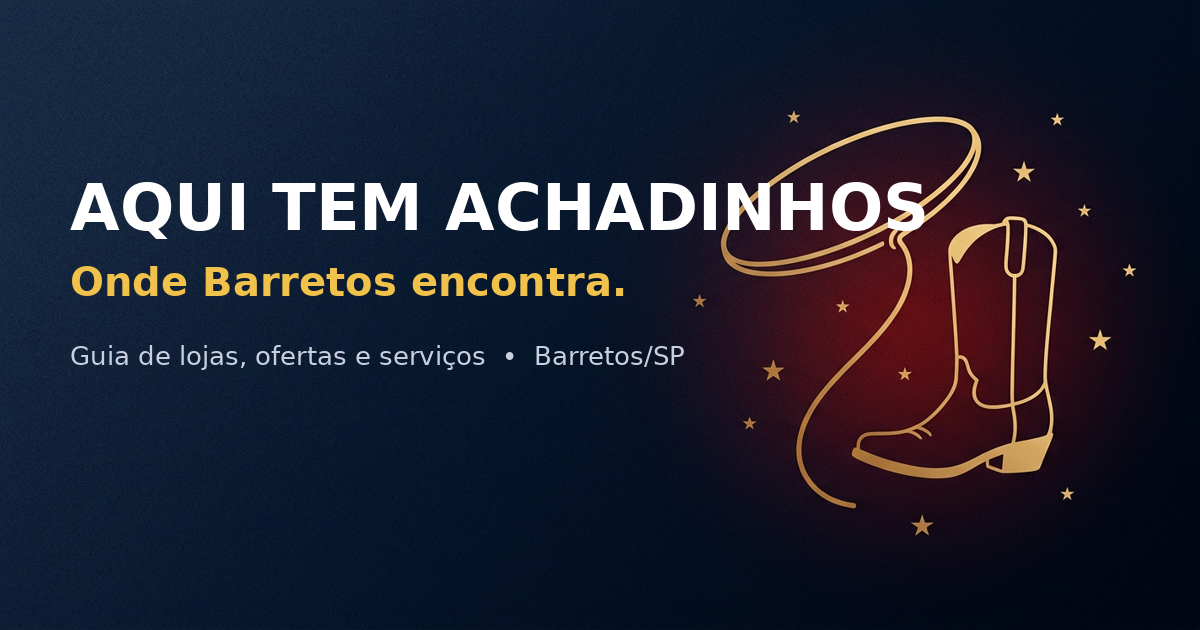
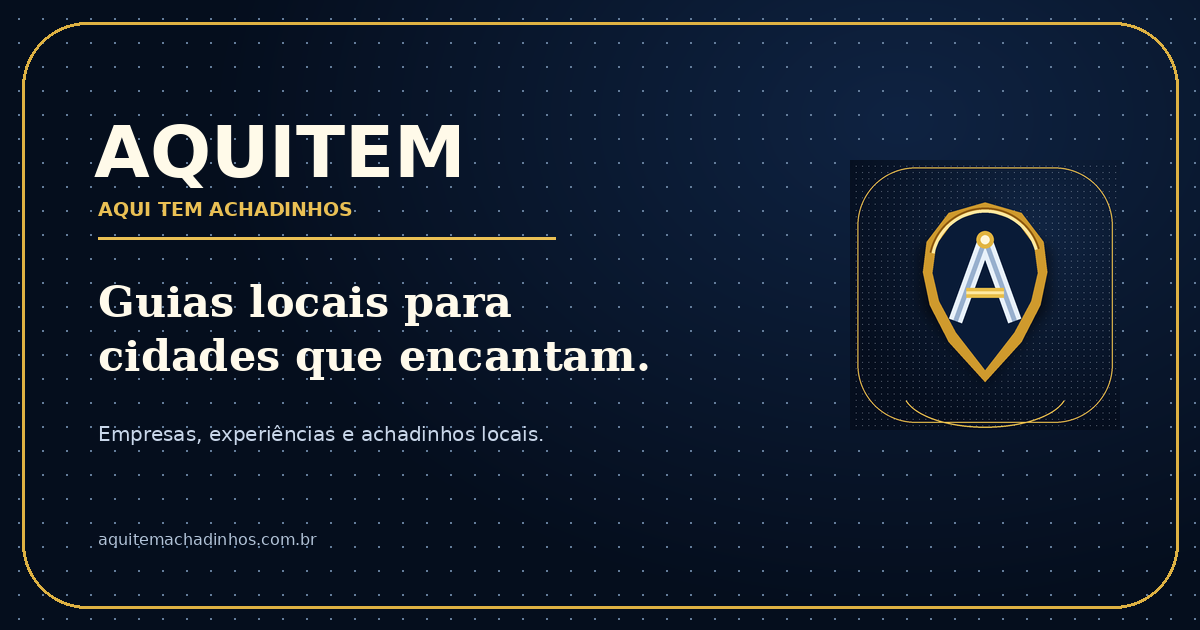
Add files via upload

diff --git a/assets/app.js b/assets/app.js
@@ -69,7 +69,8 @@
   if (sub !== "www" && (location.pathname === "/" || location.pathname === "/index.html")) { location.replace("/" + sub + "-home.html"); }
   var par = CIDADES[sub] || CIDADES["www"];
   var CIDADE = par[0], UF = par[1], CIDUP = CIDADE.toUpperCase();
-  window.CIDADE = { nome: CIDADE, uf: UF };
+  document.documentElement.setAttribute('data-aquitem-city', sub === 'www' ? 'barretos' : sub);
+  window.CIDADE = { nome: CIDADE, uf: UF, slug: (sub === 'www' ? 'barretos' : sub) };
   function temCidade(s) { return s && (s.indexOf("Barretos") !== -1 || s.indexOf("BARRETOS") !== -1 || s.indexOf("barretos") !== -1); }
   function trocaTexto(s) {
     return s.split("BARRETOS/SP").join(CIDUP + "/" + UF)
@@ -114,7 +115,8 @@
   'use strict';
 
   var CONFIG = {
-    brand: 'Aqui Tem Achadinhos',
+    brand: 'AQUITEM',
+    productName: 'Aqui Tem Achadinhos',
     whatsapp: '5517992641746',
     instagram: 'https://instagram.com/aquitatem',
     domain: 'aquitemachadinhos.com.br',
@@ -236,16 +238,22 @@
   }
   window.ATA = { CONFIG: CONFIG, LojistaAuth: LojistaAuth, Stores: Stores, Offers: Offers, Categories: Categories, Metrics: Metrics, uploadPhoto: uploadPhoto, waLink: waLink, esc: esc };
 
-  /* LAYOUT */
-  var LOGO = '<svg viewBox="0 0 64 64" class="w-9 h-9 rounded-xl shadow-soft" aria-hidden="true"><rect width="64" height="64" rx="16" fill="#0B1E3F"/><path d="M19 47 L32 16 L45 47" fill="none" stroke="#dfe7f0" stroke-width="6.5" stroke-linecap="round" stroke-linejoin="round"/><line x1="24" y1="38" x2="40" y2="38" stroke="#E63946" stroke-width="5" stroke-linecap="round"/></svg>';
+  /* LAYOUT — identidade AQUITEM */
+  var LOGO = '<img src="assets/aquitem-symbol.png" class="w-10 h-10 rounded-xl shadow-soft object-cover" alt="AQUITEM">';
+  function cityRegistrationUrl() { var slug = currentCitySlug(); return slug === 'barretos' ? 'cadastro.html' : 'https://www.aquitemachadinhos.com.br/cadastro-cidade.html?cidade=' + encodeURIComponent(slug) + '&utm_source=site&utm_medium=header_cta&utm_campaign=expansao_' + encodeURIComponent(slug); }
   function headerHTML(active) {
-    var it = [{ k: 'home', l: 'Início', h: 'index.html' }, { k: 'categoria', l: 'Categorias', h: 'categoria.html' }, { k: 'busca', l: '🔍 Buscar', h: 'busca.html' }, { k: 'favoritos', l: '❤ Favoritos', h: 'favoritos.html' }, { k: 'ofertas', l: 'Ofertas', h: 'ofertas.html' }, { k: 'imoveis', l: '🏠 Imóveis', h: 'imoveis.html' }, { k: 'mapa', l: 'Mapa', h: 'mapa.html' }, { k: 'turista', l: 'Turista', h: 'turista.html' }, { k: 'guiapeao', l: '🤠 Guia do Peão', h: 'guia-peao.html' }, { k: 'motoristas', l: '🚗 Motoristas', h: 'motoristas.html' }, { k: 'classificados', l: 'Classificados', h: 'classificados.html' }, { k: 'anuncie', l: 'Para empresas', h: 'anuncie.html' }];
-    var nav = it.filter(function (i) { return ['home','categoria','busca','ofertas','imoveis','motoristas','guiapeao'].indexOf(i.k) > -1; }).map(function (i) { return '<a href="' + i.h + '" class="' + (active === i.k ? 'text-white' : 'text-silver-200 hover:text-white') + ' transition">' + i.l + '</a>'; }).join('');
+    var city = currentCityName(), isBarretos = currentCitySlug() === 'barretos';
+    var it = [{ k: 'home', l: 'Início', h: 'index.html' }, { k: 'categoria', l: 'Categorias', h: 'categoria.html' }, { k: 'busca', l: '🔍 Buscar', h: 'busca.html' }, { k: 'ofertas', l: 'Ofertas', h: 'ofertas.html' }, { k: 'mapa', l: 'Mapa', h: 'mapa.html' }, { k: 'turista', l: 'Turista', h: 'turista.html' }, { k: 'classificados', l: 'Classificados', h: 'classificados.html' }, { k: 'anuncie', l: 'Para empresas', h: 'anuncie.html' }];
+    if (isBarretos) it.splice(5, 0, { k: 'guiapeao', l: 'Guia do Peão', h: 'guia-peao.html' });
+    var nav = it.filter(function (i) { return ['home','categoria','busca','ofertas','guiapeao'].indexOf(i.k) > -1; }).map(function (i) { return '<a href="' + i.h + '" class="' + (active === i.k ? 'text-white' : 'text-silver-200 hover:text-white') + ' transition">' + i.l + '</a>'; }).join('');
     var mob = it.map(function (i) { return '<a href="' + i.h + '" class="py-2.5 px-3 rounded-lg hover:bg-white/5 ' + (active === i.k ? 'text-white' : '') + '">' + i.l + '</a>'; }).join('');
-    return '<header class="sticky top-0 z-50 bg-navy-950/80 backdrop-blur border-b border-white/10"><div class="max-w-7xl mx-auto px-4 sm:px-6 h-16 flex items-center justify-between gap-3"><a href="index.html" class="flex items-center gap-2.5 shrink-0">' + LOGO + '<span class="leading-tight"><span class="block font-display font-extrabold text-[15px] text-chrome">' + esc(CONFIG.brand) + '</span><span class="block text-[10px] text-silver-400 tracking-wide">GUIA DE COMPRAS DE BARRETOS</span></span></a><nav class="hidden lg:flex items-center gap-7 text-sm font-medium">' + nav + '</nav><div class="flex items-center gap-2"><a href="cadastro.html" class="hidden sm:inline-flex btn-shine bg-peao-500 hover:bg-peao-600 text-white text-sm font-semibold px-4 py-2.5 rounded-xl shadow-redglow transition">Cadastrar empresa</a><button id="menuBtn" class="lg:hidden w-10 h-10 grid place-items-center rounded-xl glass text-white" aria-label="Menu"><svg class="w-6 h-6" fill="none" stroke="currentColor" stroke-width="2" viewBox="0 0 24 24"><path d="M4 6h16M4 12h16M4 18h16"/></svg></button></div></div><div id="mobileMenu" class="hidden lg:hidden border-t border-white/10 bg-navy-950/95"><div class="px-4 py-3 flex flex-col gap-1 text-silver-200">' + mob + '<a href="cadastro.html" class="mt-1 text-center bg-peao-500 text-white font-semibold py-3 rounded-xl">Cadastrar empresa</a></div></div></header>';
+    return '<header class="sticky top-0 z-50 bg-navy-950/90 backdrop-blur border-b border-white/10"><div class="max-w-7xl mx-auto px-4 sm:px-6 aquitem-header flex items-center justify-between gap-3"><a href="index.html" class="flex items-center gap-2.5 shrink-0">' + LOGO + '<span class="leading-tight"><span class="block font-display font-extrabold aquitem-wordmark text-[15px] text-chrome">AQUITEM</span><span class="block text-[9px] text-peao-400 font-bold aquitem-submark">GUIAS LOCAIS · ' + esc(city.toUpperCase()) + '</span></span></a><nav class="hidden lg:flex items-center gap-7 text-sm font-medium">' + nav + '</nav><div class="flex items-center gap-2"><a href="' + cityRegistrationUrl() + '" class="hidden sm:inline-flex btn-shine bg-amber-400 hover:bg-amber-300 text-navy-950 text-sm font-extrabold px-4 py-2.5 rounded-xl transition">Cadastrar empresa</a><button id="menuBtn" class="lg:hidden w-10 h-10 grid place-items-center rounded-xl glass text-white" aria-label="Abrir menu"><svg class="w-6 h-6" fill="none" stroke="currentColor" stroke-width="2" viewBox="0 0 24 24"><path d="M4 6h16M4 12h16M4 18h16"/></svg></button></div></div><div id="mobileMenu" class="hidden lg:hidden border-t border-white/10 bg-navy-950/95"><div class="px-4 py-3 flex flex-col gap-1 text-silver-200">' + mob + '<a href="' + cityRegistrationUrl() + '" class="mt-1 text-center bg-amber-400 text-navy-950 font-extrabold py-3 rounded-xl">Cadastrar empresa</a></div></div></header>';
   }
   function footerHTML() {
-    return '<footer class="bg-navy-950 text-silver-300 border-t border-white/10"><div id="socialProof" class="border-b border-white/10"><div class="max-w-5xl mx-auto px-4 py-8 text-center text-silver-400 text-sm">Carregando números reais…</div></div><div class="max-w-7xl mx-auto px-4 sm:px-6 py-12 grid md:grid-cols-4 gap-8"><div class="md:col-span-2"><div class="flex items-center gap-2.5 mb-3">' + LOGO + '<span class="font-display font-extrabold text-chrome">' + esc(CONFIG.brand) + '</span></div><p class="text-sm text-silver-400 max-w-sm">O guia local de lojas, serviços e ofertas de ' + esc(CONFIG.cidade) + '. Empresas reais, ofertas atualizadas e contatos diretos em um só lugar.</p><div class="flex gap-3 mt-4"><a href="' + waLink() + '" target="_blank" rel="noopener noreferrer" class="w-10 h-10 grid place-items-center rounded-xl glass hover:bg-white/10 transition">💬</a><a href="' + CONFIG.instagram + '" target="_blank" rel="noopener noreferrer" class="w-10 h-10 grid place-items-center rounded-xl glass hover:bg-white/10 transition">📸</a></div></div><div><h4 class="text-white font-semibold mb-3 font-display">Para você</h4><ul class="space-y-2 text-sm"><li><a href="categoria.html" class="hover:text-white">Categorias</a></li><li><a href="ofertas.html" class="hover:text-white">Ofertas</a></li><li><a href="index.html#turista" class="hover:text-white">Guia do turista</a></li></ul></div><div><h4 class="text-white font-semibold mb-3 font-display">Para empresas</h4><ul class="space-y-2 text-sm"><li><a href="anuncie.html" class="hover:text-white">Anunciar empresa</a></li><li><a href="cadastro.html" class="hover:text-white">Cadastrar grátis</a></li><li><a href="' + waLink('Olá! Quero saber sobre anúncios.') + '" target="_blank" rel="noopener noreferrer" class="hover:text-white">WhatsApp</a></li></ul></div></div><div class="border-t border-white/10"><div class="max-w-7xl mx-auto px-4 sm:px-6 py-4 text-xs text-silver-400 flex flex-wrap gap-x-5 gap-y-2"><a href="sobre.html" class="hover:text-white">Sobre</a><a href="contato.html" class="hover:text-white">Contato</a><a href="faq.html" class="hover:text-white">Ajuda/FAQ</a><a href="politica-de-privacidade.html" class="hover:text-white">Privacidade</a><a href="termos.html" class="hover:text-white">Termos</a><a href="politica-de-ofertas.html" class="hover:text-white">Política de ofertas</a><a href="o-que-fazer-festa-do-peao.html" class="hover:text-white">Festa do Peão</a><a href="onde-comer-barretos.html" class="hover:text-white">Onde comer</a></div><div class="max-w-7xl mx-auto px-4 sm:px-6 pb-5 text-xs text-silver-400 flex flex-col sm:flex-row justify-between gap-2"><span>© 2026 ' + esc(CONFIG.brand) + ' · ' + CONFIG.domain + '</span><span>Conteúdo pago é identificado como “Destaque”. Barretos/SP 💙🤍</span></div></div></footer>';
+    var city = currentCityName(), isBarretos = currentCitySlug() === 'barretos', register = cityRegistrationUrl();
+    var explore = '<a href="categoria.html" class="hover:text-white">Categorias</a><a href="ofertas.html" class="hover:text-white">Ofertas</a><a href="https://www.aquitemachadinhos.com.br/cidades.html" class="hover:text-white">Todas as cidades</a><a href="index.html#turista" class="hover:text-white">Guia do turista</a>';
+    var legal = '<a href="sobre.html" class="hover:text-white">Sobre</a><a href="contato.html" class="hover:text-white">Contato</a><a href="faq.html" class="hover:text-white">Ajuda</a><a href="politica-de-privacidade.html" class="hover:text-white">Privacidade</a><a href="termos.html" class="hover:text-white">Termos</a><a href="politica-de-ofertas.html" class="hover:text-white">Política de ofertas</a>' + (isBarretos ? '<a href="guia-peao.html" class="hover:text-white">Festa do Peão</a>' : '');
+    return '<footer class="bg-navy-950 text-silver-300 border-t border-white/10"><div id="socialProof" class="border-b border-white/10"><div class="max-w-5xl mx-auto px-4 py-7 text-center text-silver-400 text-sm">Carregando números reais…</div></div><div class="max-w-7xl mx-auto px-5 sm:px-6 py-12 grid md:grid-cols-4 gap-9"><div class="md:col-span-2"><div class="flex items-center gap-3 mb-4">' + LOGO + '<span><span class="block font-display font-extrabold tracking-[.08em] text-chrome">AQUITEM</span><span class="block text-[10px] text-peao-400 font-bold tracking-[.14em]">AQUI TEM ACHADINHOS</span></span></div><p class="text-sm text-silver-400 max-w-sm leading-relaxed">Empresas, experiências e achadinhos locais para quem mora, visita ou empreende em <b>' + esc(city) + '</b>.</p><div class="flex gap-3 mt-5"><a href="' + waLink('Olá! Vim pela AQUITEM.') + '" target="_blank" rel="noopener noreferrer" class="w-10 h-10 grid place-items-center rounded-xl glass hover:bg-white/10 transition" aria-label="WhatsApp">💬</a><a href="' + CONFIG.instagram + '" target="_blank" rel="noopener noreferrer" class="w-10 h-10 grid place-items-center rounded-xl glass hover:bg-white/10 transition" aria-label="Instagram">📸</a></div></div><div><h4 class="text-white font-semibold mb-3 font-display">Explorar</h4><div class="aquitem-footer-nav text-sm text-silver-400">' + explore + '</div></div><div><h4 class="text-white font-semibold mb-3 font-display">Para empresas</h4><div class="aquitem-footer-nav text-sm text-silver-400"><a href="' + register + '" class="hover:text-white">Cadastrar empresa</a><a href="anuncie.html" class="hover:text-white">Planos e visibilidade</a><a href="' + waLink('Olá! Quero saber sobre anúncios na AQUITEM.') + '" target="_blank" rel="noopener noreferrer" class="hover:text-white">Falar no WhatsApp</a></div></div></div><div class="border-t border-white/10"><div class="max-w-7xl mx-auto px-5 sm:px-6 py-5 text-xs text-silver-400 aquitem-footer-links">' + legal + '</div><div class="max-w-7xl mx-auto px-5 sm:px-6 pb-6 text-xs text-silver-400 flex flex-col sm:flex-row justify-between gap-2"><span>© 2026 AQUITEM · Aqui Tem Achadinhos</span><span>Conteúdo pago é identificado como “Destaque”. ' + esc(city) + '/' + esc(currentCityUF()) + '</span></div></div></footer>';
   }
   function injectLayout() {
     var h = $('#site-header'); if (h) h.innerHTML = headerHTML(document.body.dataset.page || 'home');
@@ -256,7 +264,18 @@
     var isAdminSurface = document.body && ['admin','painel','login'].indexOf(pageSurface) !== -1;
     var landingPages = ['home','gramado','blumenau','bonito','buzios','campos','caruaru','florianopolis','jericoacoara','porto','salvador'];
     var allowFloatingWa = landingPages.indexOf(pageSurface) !== -1;
-    if (!isAdminSurface && allowFloatingWa && !$('#ataFloatingWa')) { var a = document.createElement('a'); a.id = 'ataFloatingWa'; a.href = waLink('Olá! Vim pelo Aqui Tem Achadinhos.'); a.target = '_blank'; a.rel = 'noopener noreferrer'; a.className = 'fixed bottom-5 right-5 z-50 w-14 h-14 rounded-full bg-[#25D366] text-white grid place-items-center shadow-2xl hover:scale-105 transition'; a.setAttribute('aria-label', 'WhatsApp'); a.innerHTML = '💬'; document.body.appendChild(a); }
+    if (!isAdminSurface && allowFloatingWa && !$('#ataFloatingWa')) { var a = document.createElement('a'); a.id = 'ataFloatingWa'; a.href = waLink('Olá! Vim pela AQUITEM.'); a.target = '_blank'; a.rel = 'noopener noreferrer'; a.className = 'fixed bottom-5 right-5 z-50 w-14 h-14 rounded-full bg-[#25D366] text-white grid place-items-center shadow-2xl hover:scale-105 transition'; a.setAttribute('aria-label', 'WhatsApp'); a.innerHTML = '💬'; document.body.appendChild(a); }
+  }
+
+  /* CITY PARALLAX — leve, progressivo e desligável */
+  function initCityParallax() {
+    var hero = document.querySelector('.cidade-hero');
+    if (!hero || (window.matchMedia && window.matchMedia('(prefers-reduced-motion: reduce)').matches)) return;
+    hero.style.setProperty('--parallax-x', '0px'); hero.style.setProperty('--parallax-y', '0px'); hero.style.setProperty('--parallax-x-soft', '0px'); hero.style.setProperty('--parallax-y-soft', '0px');
+    if (window.matchMedia && window.matchMedia('(pointer:fine)').matches) {
+      hero.addEventListener('pointermove', function (e) { var r = hero.getBoundingClientRect(); var x = ((e.clientX-r.left)/r.width-.5)*16; var y = ((e.clientY-r.top)/r.height-.5)*12; hero.style.setProperty('--parallax-x', x.toFixed(1)+'px'); hero.style.setProperty('--parallax-y', y.toFixed(1)+'px'); hero.style.setProperty('--parallax-x-soft', (-x*.7).toFixed(1)+'px'); hero.style.setProperty('--parallax-y-soft', (-y*.7).toFixed(1)+'px'); }, { passive:true });
+      hero.addEventListener('pointerleave', function () { hero.style.setProperty('--parallax-x','0px'); hero.style.setProperty('--parallax-y','0px'); hero.style.setProperty('--parallax-x-soft','0px'); hero.style.setProperty('--parallax-y-soft','0px'); });
+    }
   }
 
   /* COUNTDOWN / SW */
@@ -657,7 +676,7 @@
     var status = lead.status || 'novo';
     var opts = ['novo','contatado','qualificado','cadastro_enviado','ativo','perdido'].map(function(x){ return '<option value="' + x + '"' + (x === status ? ' selected' : '') + '>' + x.replace('_',' ') + '</option>'; }).join('');
     var wa = String(lead.whatsapp || '').replace(/\D/g, '');
-    return '<div class="bg-white rounded-2xl ring-silver shadow-soft p-4 flex flex-col sm:flex-row items-stretch sm:items-center gap-3"><div class="w-11 h-11 rounded-xl bg-navy-800 text-white grid place-items-center font-bold">' + esc(city.slice(0,2).toUpperCase()) + '</div><div class="flex-1 min-w-0"><p class="font-display font-bold truncate">' + esc(lead.empresa_nome) + '</p><p class="text-xs text-silver-500">📍 ' + esc(city) + (lead.categoria ? ' · ' + esc(lead.categoria) : '') + (lead.origem ? ' · ' + esc(lead.origem) : '') + '</p><p class="text-xs text-slate-500 truncate">' + esc(lead.responsavel || '') + (lead.email ? ' · ' + esc(lead.email) : '') + '</p></div><div class="flex w-full sm:w-auto items-center gap-2 shrink-0 flex-wrap justify-end">' + (status === 'ativo' ? '<span class="text-xs font-bold text-emerald-700 bg-emerald-500/10 px-3 py-1.5 rounded-lg">✓ Publicada</span>' : '<button data-lead-convert="' + esc(lead.id) + '" class="text-xs font-bold text-white bg-navy-800 px-3 py-1.5 rounded-lg">Publicar empresa</button>') + '<a href="https://wa.me/' + esc(wa) + '?text=' + encodeURIComponent('Olá! Recebemos o interesse da sua empresa na AQUITÉM. Posso ajudar com o cadastro?') + '" target="_blank" rel="noopener noreferrer" class="text-xs font-bold text-white bg-[#25D366] px-3 py-1.5 rounded-lg">WhatsApp</a><select data-lead-status="' + esc(lead.id) + '" class="text-xs bg-silver-50 ring-silver rounded-lg px-2 py-1">' + opts + '</select></div></div>';
+    return '<div class="bg-white rounded-2xl ring-silver shadow-soft p-4 flex flex-col sm:flex-row items-stretch sm:items-center gap-3"><div class="w-11 h-11 rounded-xl bg-navy-800 text-white grid place-items-center font-bold">' + esc(city.slice(0,2).toUpperCase()) + '</div><div class="flex-1 min-w-0"><p class="font-display font-bold truncate">' + esc(lead.empresa_nome) + '</p><p class="text-xs text-silver-500">📍 ' + esc(city) + (lead.categoria ? ' · ' + esc(lead.categoria) : '') + (lead.origem ? ' · ' + esc(lead.origem) : '') + '</p><p class="text-xs text-slate-500 truncate">' + esc(lead.responsavel || '') + (lead.email ? ' · ' + esc(lead.email) : '') + '</p></div><div class="flex w-full sm:w-auto items-center gap-2 shrink-0 flex-wrap justify-end">' + (status === 'ativo' ? '<span class="text-xs font-bold text-emerald-700 bg-emerald-500/10 px-3 py-1.5 rounded-lg">✓ Publicada</span>' : '<button data-lead-convert="' + esc(lead.id) + '" class="text-xs font-bold text-white bg-navy-800 px-3 py-1.5 rounded-lg">Publicar empresa</button>') + '<a href="https://wa.me/' + esc(wa) + '?text=' + encodeURIComponent('Olá! Recebemos o interesse da sua empresa na AQUITEM. Posso ajudar com o cadastro?') + '" target="_blank" rel="noopener noreferrer" class="text-xs font-bold text-white bg-[#25D366] px-3 py-1.5 rounded-lg">WhatsApp</a><select data-lead-status="' + esc(lead.id) + '" class="text-xs bg-silver-50 ring-silver rounded-lg px-2 py-1">' + opts + '</select></div></div>';
   }
   function leadCategoryGuess(v) {
     var x = String(v || '').toLowerCase();
@@ -1351,7 +1370,7 @@
 
   /* BOOT */
   document.addEventListener('DOMContentLoaded', function () {
-    injectLayout(); renderSocialProof(); initCountdown(); Metrics.log('pageview'); wireSearchAutocomplete(); renderRecent(); registerSW(); initAnalytics(); wireMP();
+    injectLayout(); renderSocialProof(); initCountdown(); initCityParallax(); Metrics.log('pageview'); wireSearchAutocomplete(); renderRecent(); registerSW(); initAnalytics(); wireMP();
     document.addEventListener('click', function (e) { var b = e.target.closest('[data-fav]'); if (b) { e.preventDefault(); e.stopPropagation(); var added = toggleFav(b.getAttribute('data-fav')); b.innerHTML = added ? '❤' : '🤍'; } });
     var p = document.body.dataset.page;
     var ROUTES = { home: pageHome, categoria: pageCategoria, loja: pageLoja, ofertas: pageOfertas, busca: pageBusca, cadastro: pageCadastro, turista: pageTurista, login: pageLogin, admin: pageAdmin, painel: pagePainel, mapa: pageMapa, motoristas: pageMotoristas, motorista: pageMotorista, cadmotorista: pageCadastroMotorista, obrigado: pageObrigado, favoritos: pageFavoritos, classificados: pageClassificadosHub, listings: pageListings, anuncio: pageAnuncio, cadanuncio: pageCadastroAnuncio };

diff --git a/assets/styles.css b/assets/styles.css
@@ -55,3 +55,27 @@ input::placeholder,textarea::placeholder{color:#6b7a92}
 
 /* Área para preencher (empresas reais) — classe permitida pela CSP */
 .area-preenchimento{border:2px dashed #E63946;border-radius:1.25rem;background:#fff7f7;padding:1.5rem 1.25rem}
+
+/* ============================================================
+   AQUITEM — Identidade oficial / guias locais
+   O vermelho fica reservado para comunicações especiais de eventos.
+   ============================================================ */
+:root{--aqui-gold:#D9AA42;--aqui-gold-light:#F5D77F;--aqui-ink:#07142B;--aqui-ice:#EEF4FC}
+.bg-peao-500{background-color:var(--aqui-gold)!important}.hover\:bg-peao-600:hover{background-color:#B98420!important}.text-peao-400,.text-peao-500,.text-peao-600{color:var(--aqui-gold-light)!important}.bg-peao-500\/10{background-color:rgba(217,170,66,.14)!important}.accent-peao-500{accent-color:var(--aqui-gold)!important}.shadow-redglow{box-shadow:0 18px 50px -18px rgba(217,170,66,.48)!important}.area-preenchimento{border-color:var(--aqui-gold);background:rgba(217,170,66,.08)}
+.aquitem-header{min-height:72px}.aquitem-wordmark{letter-spacing:.08em}.aquitem-submark{letter-spacing:.16em}.aquitem-footer-links{display:flex;flex-wrap:wrap;gap:12px 20px;line-height:1.45}.aquitem-footer-links a{display:inline-block}.aquitem-footer-nav{display:flex;flex-direction:column;gap:12px}.aquitem-card-logo{background:linear-gradient(145deg,#10264A,#07142B)}
+@media(max-width:640px){.aquitem-header{min-height:66px}.aquitem-wordmark{font-size:14px}.aquitem-submark{font-size:8px}.aquitem-footer-links{gap:12px 16px}.aquitem-footer-nav{gap:14px}}
+
+/* Temas contextuais por cidade — a marca continua AQUITEM */
+:root{--city-accent:#D9AA42;--city-accent-soft:rgba(217,170,66,.15);--city-glow:rgba(217,170,66,.26);--city-deep:#10264A}
+html[data-aquitem-city="barretos"]{--city-accent:#D9AA42;--city-accent-soft:rgba(217,170,66,.15);--city-glow:rgba(217,170,66,.26);--city-deep:#182A4B}
+html[data-aquitem-city="gramado"]{--city-accent:#B9C96A;--city-accent-soft:rgba(185,201,106,.16);--city-glow:rgba(185,201,106,.25);--city-deep:#18372E}
+html[data-aquitem-city="buzios"]{--city-accent:#55C5D8;--city-accent-soft:rgba(85,197,216,.15);--city-glow:rgba(85,197,216,.27);--city-deep:#123C5B}
+html[data-aquitem-city="bonito"]{--city-accent:#53C6AC;--city-accent-soft:rgba(83,198,172,.16);--city-glow:rgba(83,198,172,.28);--city-deep:#103C44}
+html[data-aquitem-city="campos"]{--city-accent:#C58B62;--city-accent-soft:rgba(197,139,98,.16);--city-glow:rgba(197,139,98,.27);--city-deep:#22354B}
+html[data-aquitem-city="blumenau"]{--city-accent:#E1A33A;--city-accent-soft:rgba(225,163,58,.16);--city-glow:rgba(225,163,58,.27);--city-deep:#1C3155}
+html[data-aquitem-city="caruaru"]{--city-accent:#E48D4D;--city-accent-soft:rgba(228,141,77,.16);--city-glow:rgba(228,141,77,.28);--city-deep:#482B25}
+html[data-aquitem-city="florianopolis"]{--city-accent:#62C7C2;--city-accent-soft:rgba(98,199,194,.16);--city-glow:rgba(98,199,194,.28);--city-deep:#153B58}
+html[data-aquitem-city="jericoacoara"]{--city-accent:#EDC26C;--city-accent-soft:rgba(237,194,108,.16);--city-glow:rgba(237,194,108,.28);--city-deep:#50412B}
+html[data-aquitem-city="porto"]{--city-accent:#59C8D2;--city-accent-soft:rgba(89,200,210,.16);--city-glow:rgba(89,200,210,.28);--city-deep:#0B3C5C}
+html[data-aquitem-city="salvador"]{--city-accent:#F0B65D;--city-accent-soft:rgba(240,182,93,.16);--city-glow:rgba(240,182,93,.28);--city-deep:#123C6B}
+.city-themed-surface{background:radial-gradient(700px 260px at 86% 5%,var(--city-glow),transparent 67%),linear-gradient(135deg,var(--city-deep),#081630)}.city-accent{color:var(--city-accent)!important}.city-accent-border{border-color:var(--city-accent)!important}.city-accent-bg{background:var(--city-accent)!important;color:#07142B!important}

diff --git a/assets/aquitem-orbit.js b/assets/aquitem-orbit.js
@@ -1,0 +1,38 @@
+/* AQUITEM Orbit — WebGL progressivo. O layout continua premium sem WebGL. */
+(function () {
+  'use strict';
+  var host = document.getElementById('aquitemOrbit');
+  if (!host || !window.THREE || (window.matchMedia && window.matchMedia('(prefers-reduced-motion: reduce)').matches)) return;
+  try {
+    var scene = new THREE.Scene();
+    var camera = new THREE.PerspectiveCamera(35, 1, 0.1, 100);
+    camera.position.set(0, 0.35, 7.2);
+    var renderer = new THREE.WebGLRenderer({ alpha: true, antialias: true, powerPreference: 'low-power' });
+    renderer.setPixelRatio(Math.min(window.devicePixelRatio || 1, 1.5));
+    host.appendChild(renderer.domElement);
+    host.classList.add('is-webgl');
+
+    var group = new THREE.Group(); scene.add(group);
+    var gold = new THREE.MeshStandardMaterial({ color: 0xD9AA42, metalness: 0.76, roughness: 0.27 });
+    var ice = new THREE.MeshStandardMaterial({ color: 0xEAF2FC, metalness: 0.5, roughness: 0.24 });
+    var deep = new THREE.MeshStandardMaterial({ color: 0x0C2245, metalness: 0.1, roughness: 0.5, transparent: true, opacity: 0.98 });
+    var ring = new THREE.Mesh(new THREE.TorusGeometry(2.05, 0.09, 16, 88), gold); ring.rotation.x = 0.25; group.add(ring);
+    var core = new THREE.Mesh(new THREE.CircleGeometry(1.82, 80), deep); core.position.z = -0.08; group.add(core);
+    var pin = new THREE.Mesh(new THREE.ConeGeometry(0.22, 2.9, 4), gold); pin.rotation.z = Math.PI; pin.position.y = -0.5; pin.scale.x = 4.2; pin.rotation.y = Math.PI / 4; group.add(pin);
+    // Letter A built from three clean 3D strokes.
+    function stroke(x, y, length, angle, material) { var m = new THREE.Mesh(new THREE.BoxGeometry(0.13, length, 0.14), material); m.position.set(x,y,0.28); m.rotation.z = angle; group.add(m); }
+    stroke(-0.55, 0, 2.1, -0.38, ice); stroke(0.55, 0, 2.1, 0.38, ice); stroke(0, -0.1, 1.02, Math.PI/2, gold);
+    var dot = new THREE.Mesh(new THREE.SphereGeometry(0.18, 24, 24), gold); dot.position.set(0,1.08,0.33); group.add(dot);
+    scene.add(new THREE.AmbientLight(0xFFFFFF, 1.7));
+    var key = new THREE.PointLight(0xFFE0A0, 2.3, 20); key.position.set(2.5,3.6,4); scene.add(key);
+    var fill = new THREE.PointLight(0x759DD0, 1.5, 15); fill.position.set(-3,-1,3); scene.add(fill);
+    var mouseX = 0, mouseY = 0;
+    host.addEventListener('pointermove', function(e){ var r=host.getBoundingClientRect(); mouseX=((e.clientX-r.left)/r.width-.5)*.55; mouseY=((e.clientY-r.top)/r.height-.5)*.22; });
+    host.addEventListener('pointerleave', function(){ mouseX=0;mouseY=0; });
+    function resize(){ var w=host.clientWidth,h=host.clientHeight; if(!w||!h)return; camera.aspect=w/h;camera.updateProjectionMatrix();renderer.setSize(w,h,false); }
+    if (window.ResizeObserver) new ResizeObserver(resize).observe(host); else window.addEventListener('resize',resize); resize();
+    var start=performance.now();
+    function frame(now){ var t=(now-start)*.001; group.rotation.y += (mouseX-group.rotation.y)*.035; group.rotation.x += (mouseY-group.rotation.x)*.03; ring.rotation.z=t*.16; dot.position.y=1.08+Math.sin(t*1.5)*.055; renderer.render(scene,camera); requestAnimationFrame(frame); }
+    requestAnimationFrame(frame);
+  } catch (e) { host.classList.remove('is-webgl'); }
+})();

diff --git a/assets/premium.css b/assets/premium.css
@@ -313,3 +313,10 @@
     background:radial-gradient(45% 45% at 50% 50%, rgba(240,194,75,.34), rgba(230,57,70,.12) 55%, transparent 75%);
     filter:blur(48px);animation:bglow 4.2s ease-in-out infinite;will-change:opacity,transform}
   @keyframes bglow{0%,100%{opacity:.55;transform:scale(1)}50%{opacity:.95;transform:scale(1.09)}}
+
+/* AQUITEM — palco institucional, independente de eventos locais */
+.official-brand-stage{position:relative;overflow:hidden;background:radial-gradient(700px 350px at 78% 12%,rgba(40,74,116,.52),transparent 66%),linear-gradient(145deg,#061126,#0b1f40);border-top:1px solid rgba(235,197,91,.25);border-bottom:1px solid rgba(235,197,91,.25);padding:90px 6vw}.official-brand-stage:before{content:"";position:absolute;inset:0;background-image:radial-gradient(rgba(235,242,250,.16) 1px,transparent 1px);background-size:22px 22px;opacity:.45}.official-brand-grid{position:relative;z-index:1;max-width:1160px;margin:auto;display:grid;grid-template-columns:1.1fr .9fr;gap:54px;align-items:center}.official-kicker{display:inline-flex;color:#efca6f;font-family:Inter,sans-serif;font-weight:800;letter-spacing:.18em;font-size:11px}.official-brand-copy h2{font-family:Plus Jakarta Sans,sans-serif;color:#f7f9fd;font-size:clamp(38px,5vw,66px);line-height:1.04;letter-spacing:-.045em;margin:16px 0}.official-brand-copy h2 span{color:#efca6f}.official-brand-copy p{max-width:590px;color:#c9d7e8;font-size:18px;line-height:1.65}.official-actions{display:flex;gap:13px;flex-wrap:wrap;margin-top:28px}.official-symbol-wrap{position:relative;display:grid;place-items:center}.official-symbol-wrap img{width:min(390px,80vw);filter:drop-shadow(0 25px 34px rgba(0,0,0,.4))}.official-symbol-caption{position:absolute;bottom:0;display:flex;align-items:center;gap:10px;color:#e6bf61;font:800 10px Inter,sans-serif;letter-spacing:.16em}.official-symbol-caption i{width:36px;height:1px;background:#e6bf61;opacity:.7}@media(max-width:760px){.official-brand-stage{padding:66px 24px}.official-brand-grid{grid-template-columns:1fr;gap:28px}.official-brand-copy h2{font-size:40px}.official-brand-copy p{font-size:16px}.official-symbol-wrap{order:-1}.official-symbol-wrap img{width:250px}.official-symbol-caption{bottom:-2px;font-size:8px}.official-actions .btn{width:100%;text-align:center;justify-content:center}}
+/* AQUITEM palette override — red is reserved for campaign/event pages only */
+:root{--peao:#D9AA42}.bg-scene{background:radial-gradient(60% 45% at 50% 0%,rgba(240,194,75,.14) 0%,transparent 60%),radial-gradient(50% 40% at 80% 100%,rgba(78,113,163,.16) 0%,transparent 60%),radial-gradient(40% 35% at 10% 90%,rgba(22,53,107,.8) 0%,transparent 60%),linear-gradient(180deg,#0B1E3F 0%,#0d2447 55%,#0B1E3F 100%)}.orb-2{background:rgba(78,113,163,.16)}
+/* Progressive WebGL scene for the AQUITEM home */
+#aquitemOrbit{display:none;width:min(390px,80vw);aspect-ratio:1/1;position:absolute;inset:0;margin:auto;z-index:2}.official-symbol-wrap:has(#aquitemOrbit.is-webgl) .official-symbol-fallback{opacity:0}.official-symbol-wrap:has(#aquitemOrbit.is-webgl) #aquitemOrbit{display:block}.official-symbol-wrap:has(#aquitemOrbit.is-webgl) .official-symbol-caption{z-index:3}@media(max-width:760px){#aquitemOrbit{width:250px}}

diff --git a/assets/cadastro-cidade.css b/assets/cadastro-cidade.css
@@ -2,3 +2,5 @@
 :root{--navy:#081426;--gold:#dfae3c;--cream:#fff9ec;--ink:#14213a;--muted:#667085}*{box-sizing:border-box}body{margin:0;min-height:100vh;font-family:Arial,Helvetica,sans-serif;background:linear-gradient(135deg,#f2f5fa,#eef2f7);color:var(--ink)}.hero{background:radial-gradient(circle at 80% 0,#29466b,#081426 58%,#050b15);padding:27px 22px 110px;color:white}.top,.wrap{max-width:820px;margin:auto}.top{display:flex;justify-content:space-between;align-items:center}.brand{font-weight:900;font-size:22px;color:var(--cream)}.brand small{display:block;font-size:9px;color:var(--gold);letter-spacing:1.8px;margin-top:3px}.top a{color:#f5d77e;text-decoration:none;font-size:13px;font-weight:bold}.hero h1{font-family:Georgia,serif;font-size:clamp(34px,5vw,52px);margin:55px 0 11px}.hero p{color:#dbe5f2;line-height:1.5;margin:0;max-width:560px}.wrap{margin:-73px auto 0;padding:0 20px 55px;position:relative}.box{background:white;border-radius:22px;padding:28px;box-shadow:0 18px 45px rgba(17,32,56,.16)}.pill{display:inline-block;background:#fff4d5;color:#815a0c;border-radius:99px;padding:8px 12px;font-weight:800;font-size:13px;margin-bottom:18px}.box h2{margin:0 0 8px;font-size:24px}.box>p{margin:0 0 23px;color:var(--muted);line-height:1.5}.grid{display:grid;grid-template-columns:1fr 1fr;gap:16px}.full{grid-column:1/-1}label{display:block;font-weight:700;font-size:14px;margin-bottom:6px}input,select,textarea{width:100%;border:1px solid #d9e0ea;border-radius:11px;padding:13px;font:inherit;color:var(--ink);background:#fff}textarea{min-height:95px;resize:vertical}.consent{display:flex;gap:9px;align-items:flex-start;margin:20px 0;color:#536176;font-size:13px;line-height:1.4}.consent input{width:17px;height:17px;flex:0 0 auto;margin:1px 0 0}.honeypot{position:absolute;left:-9999px;opacity:0}.btn{width:100%;border:0;border-radius:12px;padding:15px;background:linear-gradient(135deg,#d79d22,#f0c660);color:#111b2b;font-size:16px;font-weight:900;cursor:pointer}.btn:disabled{opacity:.6;cursor:wait}.note{text-align:center;color:#758197;font-size:12px;line-height:1.5;margin:15px 0 0}.success{display:none;text-align:center;padding:18px 0}.success .ok{font-size:52px}.success h2{font-family:Georgia,serif;font-size:28px}.success p{color:#58677d;line-height:1.55}.error{display:none;color:#b42318;background:#fff0ee;border-radius:10px;padding:11px;font-size:13px;margin-top:13px}@media(max-width:570px){.hero{padding-bottom:95px}.hero h1{margin-top:46px}.box{padding:22px 18px}.grid{grid-template-columns:1fr}.full{grid-column:auto}}
 
 .success-link{display:block;text-decoration:none;margin-top:20px}
+
+.brand{display:flex;align-items:center;gap:9px}.brand small{position:absolute;margin-left:0}.brand-symbol{width:32px;height:32px;border-radius:10px;object-fit:cover}.brand>small{margin-left:41px;margin-top:24px}

diff --git a/assets/tema-cidade.css b/assets/tema-cidade.css
@@ -1,0 +1,20 @@
+/* TEMA POR CIDADE — cores via CSS fixo por cidade ({slug}-tema.css) */
+.cidade-hero{position:relative;overflow:hidden;background:linear-gradient(180deg,rgba(6,15,39,.22) 0%,rgba(6,15,39,.55) 100%),linear-gradient(155deg,var(--accent) 0%,#060f27 70%)}
+.cidade-btn{background:var(--accent);color:#fff;transition:background .2s}
+.cidade-btn:hover{background:var(--accent-d)}
+.cidade-text{color:var(--accent)}
+.cidade-eyebrow{color:var(--accent)}
+.cidade-stat{color:var(--accent)}
+.cidade-chip{background:var(--accent-s);color:#0e1322}
+.cidade-card{transition:box-shadow .2s}
+.cidade-card:hover{box-shadow:0 18px 40px rgba(0,0,0,.18),inset 0 0 0 2px var(--accent-s)}
+
+/* AQUITEM city experience: depth, glass and subtle motion */
+.cidade-hero{isolation:isolate;min-height:420px;background:radial-gradient(620px 300px at 88% 8%,color-mix(in srgb,var(--accent) 42%,transparent),transparent 67%),linear-gradient(155deg,var(--accent) 0%,#081630 72%)}
+.cidade-hero:before{content:"";position:absolute;z-index:-1;width:430px;height:430px;right:-130px;top:36px;border:1px solid color-mix(in srgb,var(--accent-s) 72%,transparent);border-radius:50%;box-shadow:0 0 0 46px color-mix(in srgb,var(--accent) 9%,transparent),0 0 0 94px color-mix(in srgb,var(--accent) 6%,transparent);opacity:.85;animation:aquitem-float 9s ease-in-out infinite alternate}
+.cidade-hero:after{content:"";position:absolute;z-index:-1;left:-90px;bottom:-150px;width:530px;height:280px;border-radius:50%;background:radial-gradient(ellipse,color-mix(in srgb,var(--accent) 28%,transparent),transparent 70%);filter:blur(4px)}
+.cidade-hero>div{position:relative;z-index:1}.cidade-btn{box-shadow:0 13px 30px color-mix(in srgb,var(--accent) 35%,transparent)}.cidade-card{border:1px solid color-mix(in srgb,var(--accent-s) 18%,transparent);transform-style:preserve-3d}.cidade-card:hover{transform:translateY(-7px) rotateX(2deg);box-shadow:0 22px 46px rgba(0,0,0,.22),inset 0 0 0 2px var(--accent-s)}
+@keyframes aquitem-float{from{transform:translate3d(0,0,0) rotate(-5deg)}to{transform:translate3d(-18px,18px,0) rotate(5deg)}}
+@media(max-width:640px){.cidade-hero{min-height:360px}.cidade-hero:before{width:270px;height:270px;right:-92px;top:52px;box-shadow:0 0 0 30px color-mix(in srgb,var(--accent) 9%,transparent),0 0 0 60px color-mix(in srgb,var(--accent) 5%,transparent)}.cidade-card:hover{transform:none}}
+@media(prefers-reduced-motion:reduce){.cidade-hero:before{animation:none}.cidade-card:hover{transform:none}}
+.cidade-hero:before{transform:translate3d(var(--parallax-x,0),var(--parallax-y,0),0)}.cidade-hero:after{transform:translate3d(var(--parallax-x-soft,0),var(--parallax-y-soft,0),0)}

diff --git a/assets/cidades.css b/assets/cidades.css
@@ -1,2 +1,4 @@
 
 :root{--navy:#081426;--ink:#11213a;--gold:#e5b94e;--cream:#fff9e9;--muted:#667085}*{box-sizing:border-box}body{margin:0;font-family:Arial,Helvetica,sans-serif;background:#f4f6fa;color:var(--ink)}.hero{background:radial-gradient(circle at 80% 10%,#1e3a5e 0,#081426 48%,#050b15 100%);color:white;min-height:360px;padding:30px 6vw 60px;position:relative;overflow:hidden}.hero:after{content:"";position:absolute;inset:0;background-image:radial-gradient(rgba(255,255,255,.23) 1px,transparent 1px);background-size:18px 18px;opacity:.35}.nav,.hero-in{position:relative;z-index:1;max-width:1200px;margin:auto}.nav{display:flex;justify-content:space-between;align-items:center}.brand{font-weight:900;font-size:25px;letter-spacing:.5px;color:var(--cream)}.brand small{display:block;color:var(--gold);font-size:10px;letter-spacing:2px;margin-top:3px}.nav a{color:#f8e3a6;text-decoration:none;font-weight:700;font-size:14px}.hero-in{padding-top:70px}.eyebrow{color:var(--gold);font-weight:800;font-size:12px;letter-spacing:2px;text-transform:uppercase}.hero h1{font-family:Georgia,serif;font-size:clamp(38px,6vw,68px);line-height:1.04;max-width:740px;margin:12px 0}.hero p{color:#d7e0ed;font-size:18px;max-width:620px;line-height:1.55}.main{max-width:1200px;margin:-34px auto 0;padding:0 24px 70px;position:relative;z-index:2}.intro{background:#fff;border-radius:20px;padding:25px 28px;box-shadow:0 12px 30px rgba(17,33,58,.10)}.intro b{color:#b37811}.grid{display:grid;grid-template-columns:repeat(auto-fit,minmax(220px,1fr));gap:17px;margin-top:26px}.card{display:block;text-decoration:none;color:var(--ink);background:white;border:1px solid #e5e9f0;border-radius:18px;padding:22px;transition:.2s;min-height:150px}.card:hover{transform:translateY(-4px);box-shadow:0 14px 28px rgba(19,35,60,.12);border-color:#dfb14d}.emoji{font-size:30px}.card h2{font-size:20px;margin:17px 0 5px}.card p{color:var(--muted);font-size:14px;margin:0}.arrow{float:right;color:#bd831a;font-weight:bold;font-size:22px}.foot{text-align:center;color:#697586;font-size:13px;padding:25px}.foot a{color:#556b8b}@media(max-width:560px){.hero{padding:24px 22px 55px;min-height:350px}.hero-in{padding-top:58px}.hero p{font-size:16px}.main{padding:0 16px 55px}.intro{padding:20px}.grid{grid-template-columns:1fr 1fr;gap:11px}.card{padding:16px;min-height:135px}.card h2{font-size:17px;margin:12px 0 4px}.card p{font-size:12px}.nav a{font-size:12px}}
+
+.brand{display:flex;align-items:center;gap:9px}.brand small{position:absolute;margin-left:0}.brand-symbol{width:32px;height:32px;border-radius:10px;object-fit:cover}.brand>small{margin-left:41px;margin-top:24px}

diff --git a/assets/cadastro-cidade.js b/assets/cadastro-cidade.js
@@ -8,7 +8,7 @@ var $=function(x){return document.querySelector(x)}, form=$('#leadForm'), city=$
 CITIES.forEach(function(c){var o=document.createElement('option');o.value=c[0];o.textContent=c[1]+' · '+c[2];city.appendChild(o)});
 if(CITIES.some(function(c){return c[0]===wanted})) city.value=wanted;
 function cityName(){var c=CITIES.filter(function(x){return x[0]===city.value})[0];return c?c[1]:'sua cidade'}
-function updateCity(){ $('#cityPill').textContent='📍 '+cityName(); document.title='Cadastrar empresa em '+cityName()+' | AQUITÉM'; }
+function updateCity(){ $('#cityPill').textContent='📍 '+cityName(); document.title='Cadastrar empresa em '+cityName()+' | AQUITEM'; }
 city.addEventListener('change',updateCity);updateCity();
 form.addEventListener('submit',function(e){e.preventDefault();var err=$('#error');err.style.display='none';if(form.website.value){return}if(!form.empresa_nome.value.trim()||!form.whatsapp.value.trim()||!$('#consent').checked){err.textContent='Preencha a empresa, o WhatsApp e aceite a autorização de contato.';err.style.display='block';return}var btn=$('#submitBtn');btn.disabled=true;btn.textContent='Enviando…';var payload={city_slug:city.value,empresa_nome:form.empresa_nome.value.trim(),responsavel:form.responsavel.value.trim()||null,whatsapp:form.whatsapp.value.trim(),email:form.email.value.trim()||null,categoria:form.categoria.value||null,mensagem:form.mensagem.value.trim()||null,origem:form.origem.value||'site',utm_source:q.get('utm_source')||null,utm_medium:q.get('utm_medium')||null,utm_campaign:q.get('utm_campaign')||null,aceite_contato:true};fetch(SUPABASE_URL+'/rest/v1/city_leads',{method:'POST',headers:{'Content-Type':'application/json','apikey':ANON_KEY,'Authorization':'Bearer '+ANON_KEY,'Prefer':'return=minimal'},body:JSON.stringify(payload)}).then(function(r){if(!r.ok)throw new Error('Não foi possível registrar agora.');$('#formArea').style.display='none';$('#successText').textContent='Recebemos o interesse da sua empresa para '+cityName()+'. Nossa equipe retornará pelo WhatsApp.';$('#success').style.display='block'}).catch(function(){err.textContent='Não foi possível enviar neste momento. Verifique sua conexão e tente novamente.';err.style.display='block';btn.disabled=false;btn.textContent='Enviar interesse →'});});
 })();
